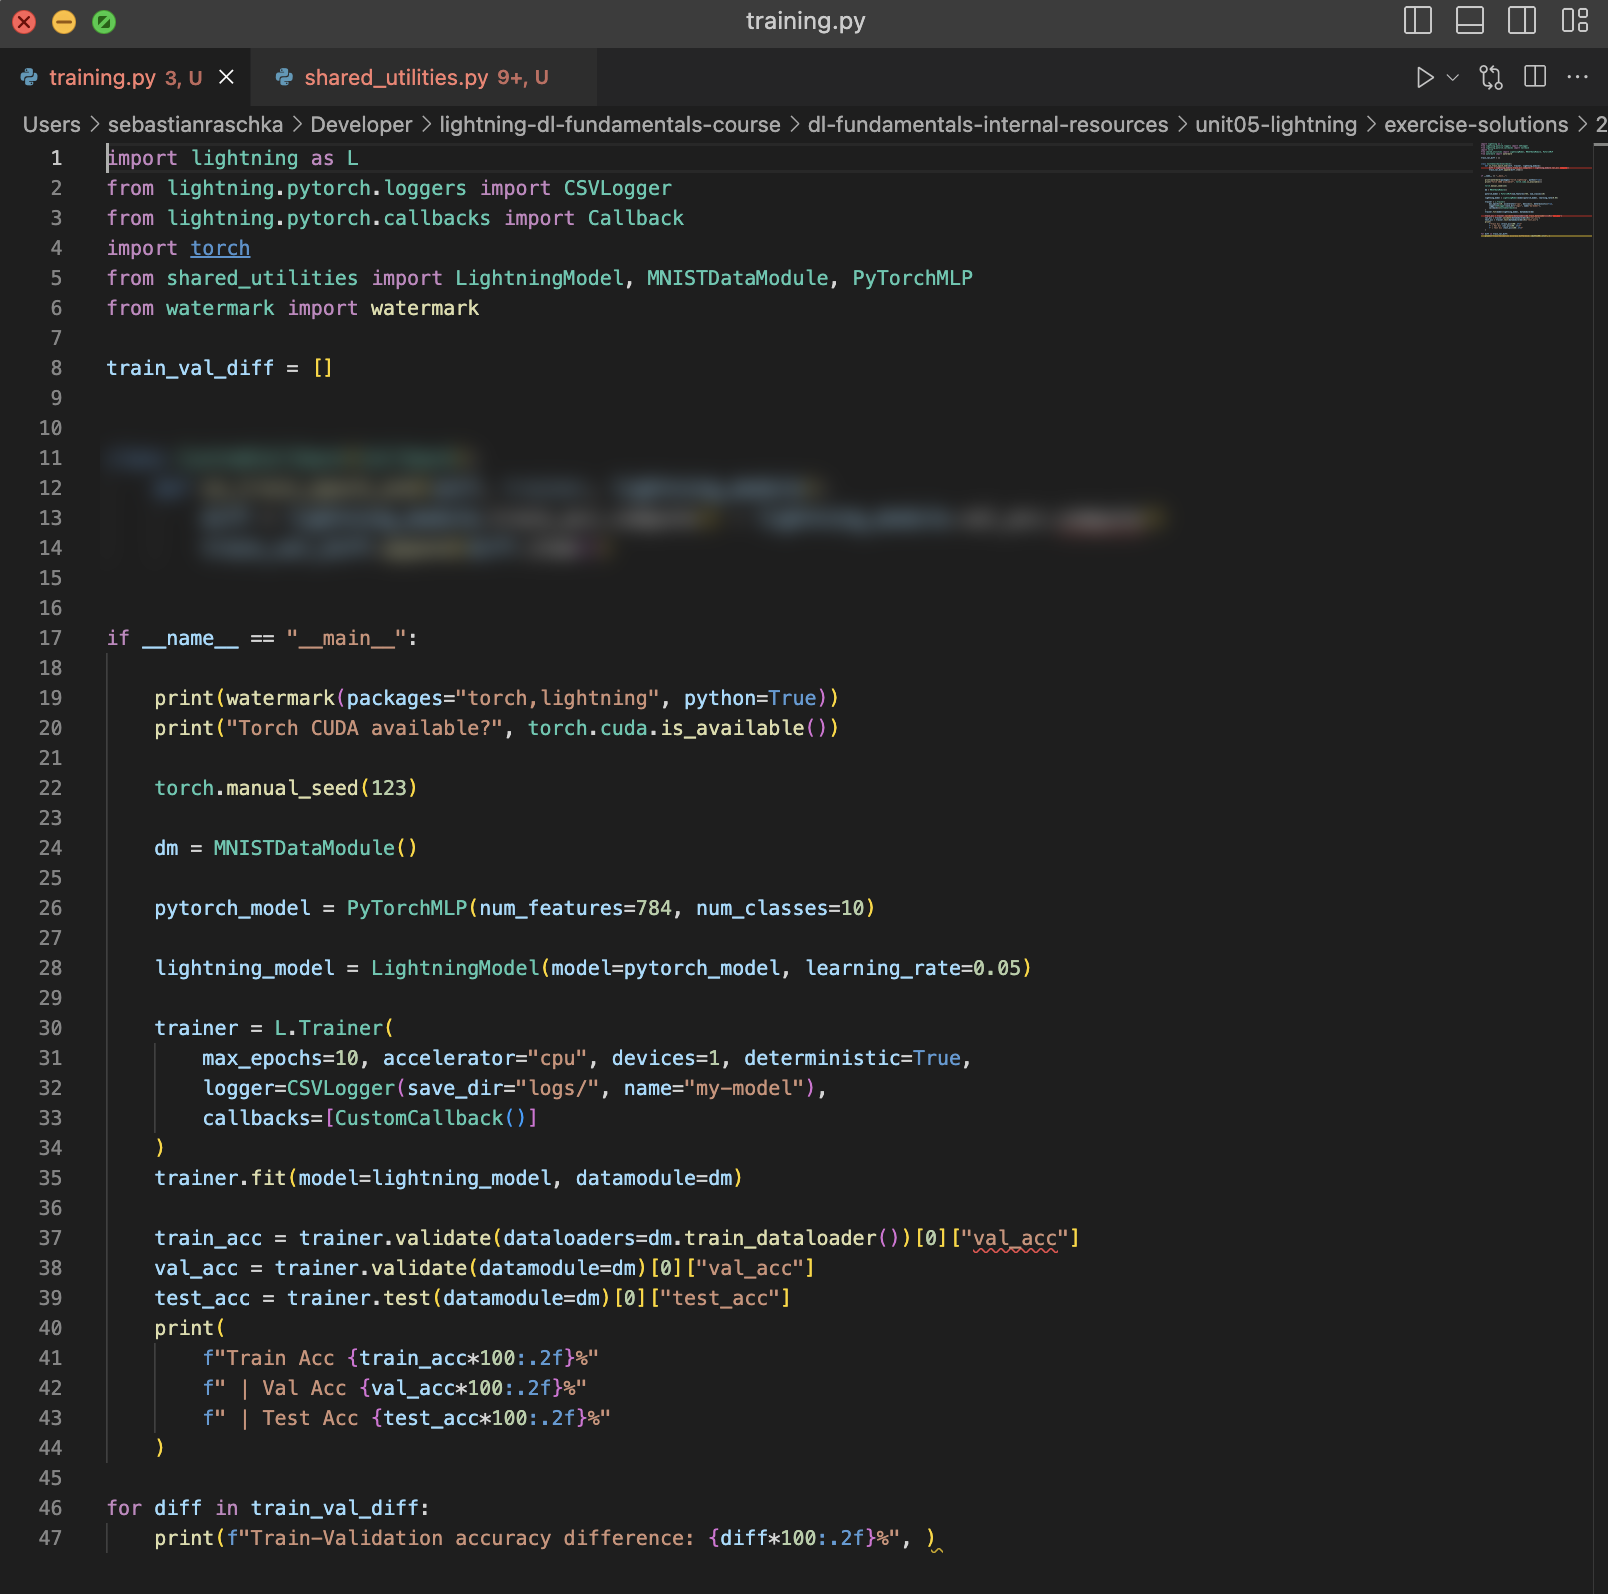
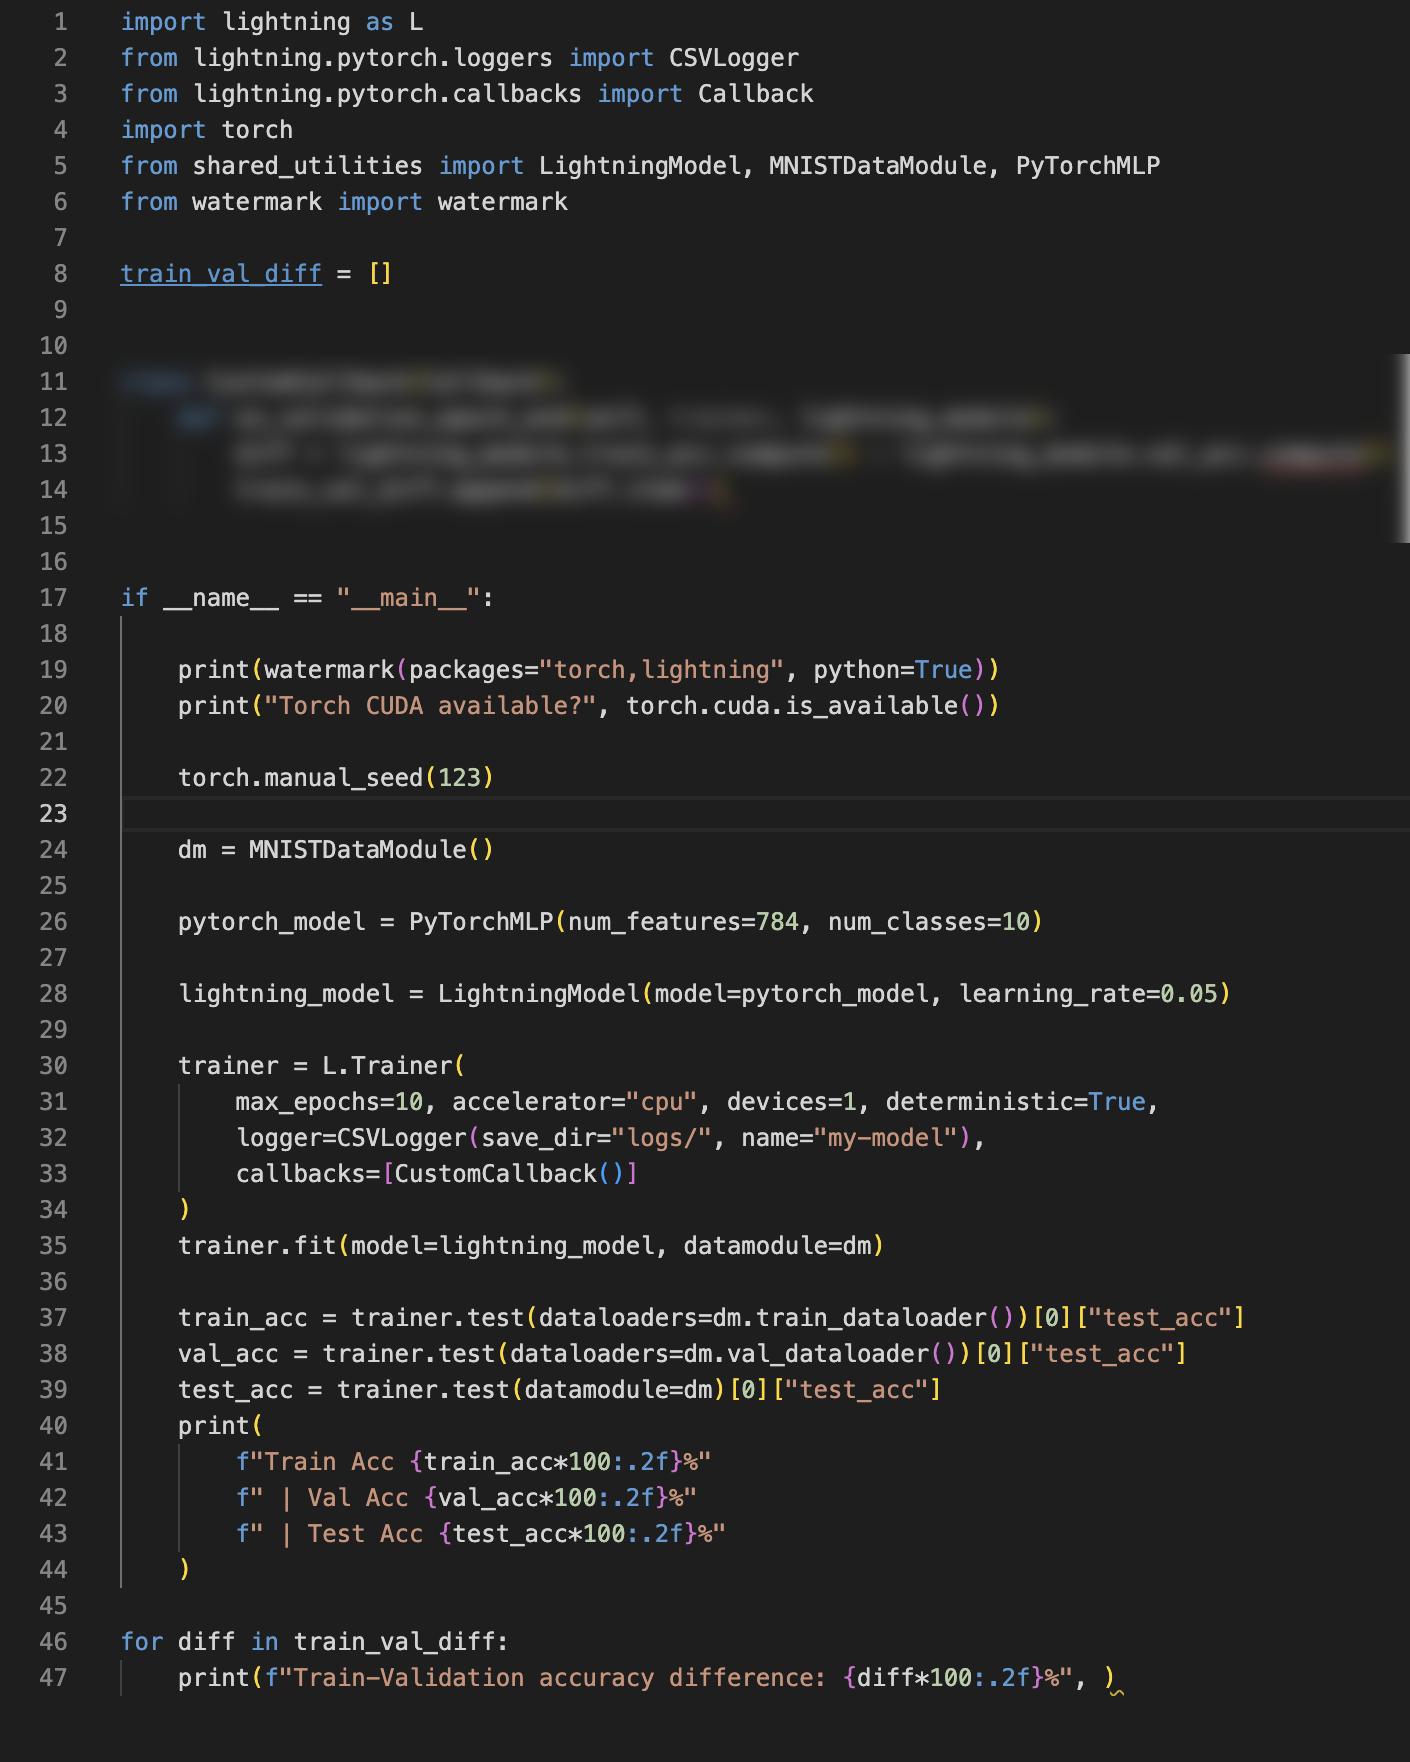
fix unit 5 exercise description and template

diff --git a/unit05-lightning/exercises/2_custom-callback/training.py b/unit05-lightning/exercises/2_custom-callback/training.py
@@ -27,8 +27,8 @@ if __name__ == "__main__":
     )
     trainer.fit(model=lightning_model, datamodule=dm)
 
-    train_acc = trainer.validate(dataloaders=dm.train_dataloader())[0]["val_acc"]
-    val_acc = trainer.validate(datamodule=dm)[0]["val_acc"]
+    train_acc = trainer.test(dataloaders=dm.train_dataloader())[0]["test_acc"]
+    val_acc = trainer.test(dataloaders=dm.val_dataloader())[0]["test_acc"]
     test_acc = trainer.test(datamodule=dm)[0]["test_acc"]
     print(
         f"Train Acc {train_acc*100:.2f}%"
